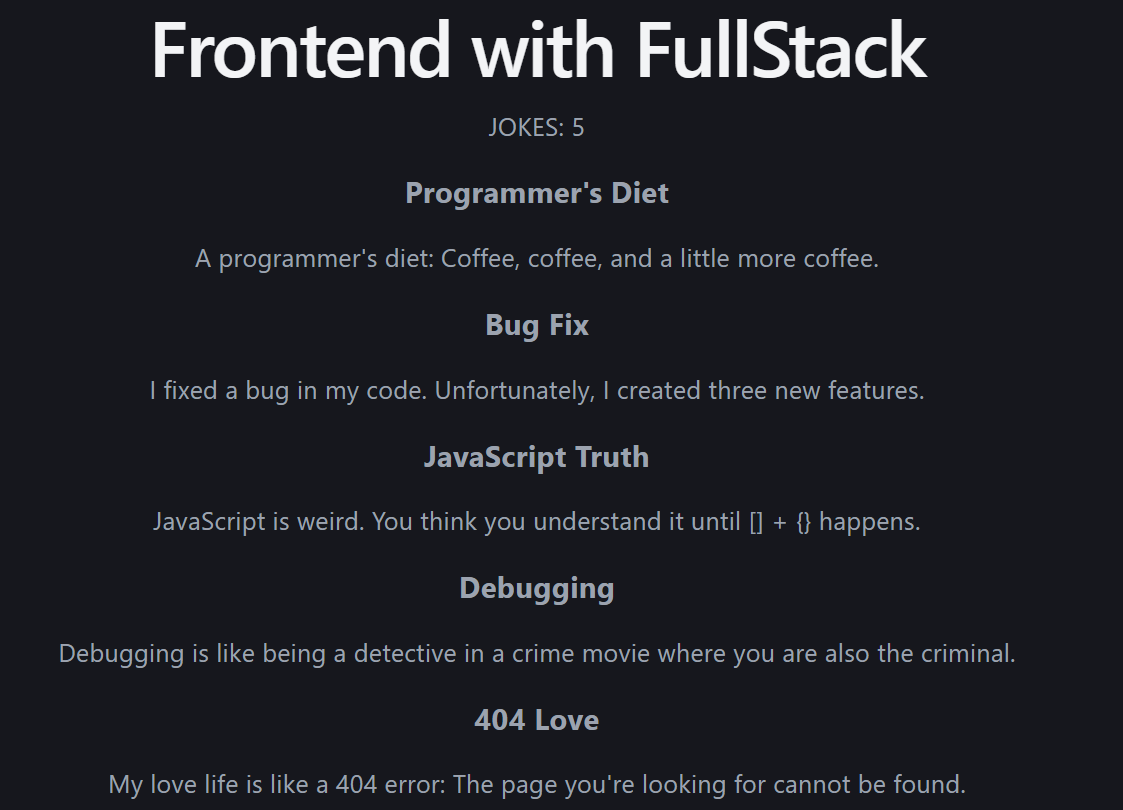
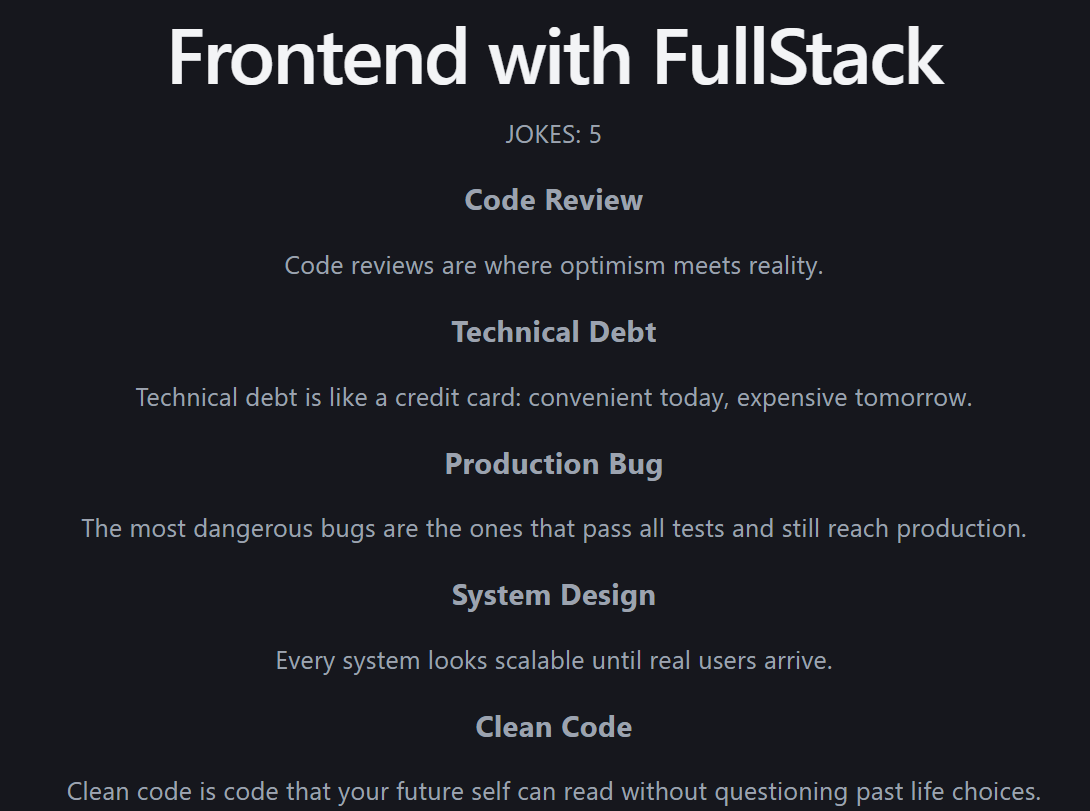
Modified image

diff --git a/backend/server.js b/backend/server.js
@@ -1,7 +1,5 @@
 import express from 'express';
-import cors from "cors";
 
-app.use(cors());
 
 const app=express();
 
@@ -14,28 +12,28 @@ app.get('/api/jokes', (req, res) => {
     const jokes = [
     {
         id: 1,
-        title: "Programmer's Diet",
-        content: "A programmer's diet: Coffee, coffee, and a little more coffee."
+        title: "Code Review",
+        content: "Code reviews are where optimism meets reality."
     },
     {
         id: 2,
-        title: "Bug Fix",
-        content: "I fixed a bug in my code. Unfortunately, I created three new features."
+        title: "Technical Debt",
+        content: "Technical debt is like a credit card: convenient today, expensive tomorrow."
     },
     {
         id: 3,
-        title: "JavaScript Truth",
-        content: "JavaScript is weird. You think you understand it until [] + {} happens."
+        title: "Production Bug",
+        content: "The most dangerous bugs are the ones that pass all tests and still reach production."
     },
     {
         id: 4,
-        title: "Debugging",
-        content: "Debugging is like being a detective in a crime movie where you are also the criminal."
+        title: "System Design",
+        content: "Every system looks scalable until real users arrive."
     },
     {
         id: 5,
-        title: "404 Love",
-        content: "My love life is like a 404 error: The page you're looking for cannot be found."
+        title: "Clean Code",
+        content: "Clean code is code that your future self can read without questioning past life choices."
     }
     ];
     res.send(jokes);

diff --git a/README.md b/README.md
@@ -12,7 +12,9 @@ REST API integration using Axios
 Beginner-friendly full stack project
 Clean and simple UI
 
+# HomePageImage
 ![alt text](image.png)
+
 
 # Tech Stack 🛠️
 